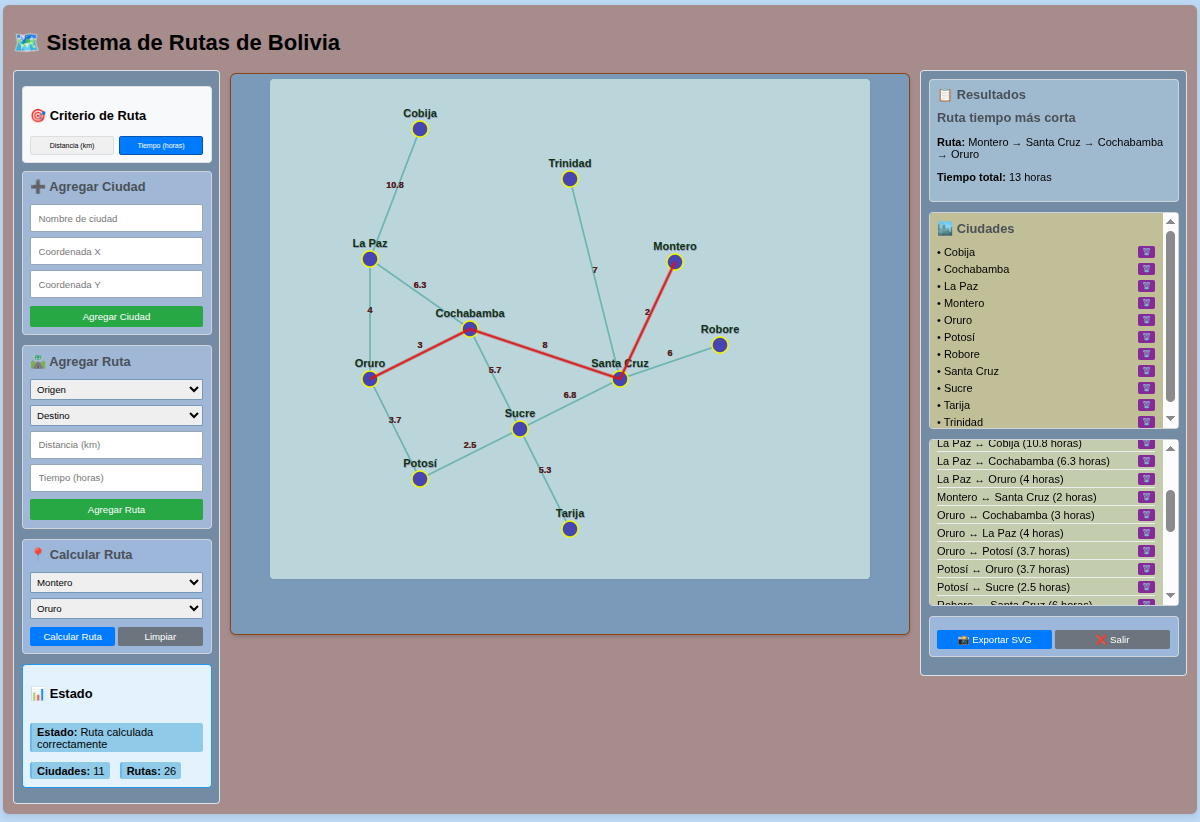
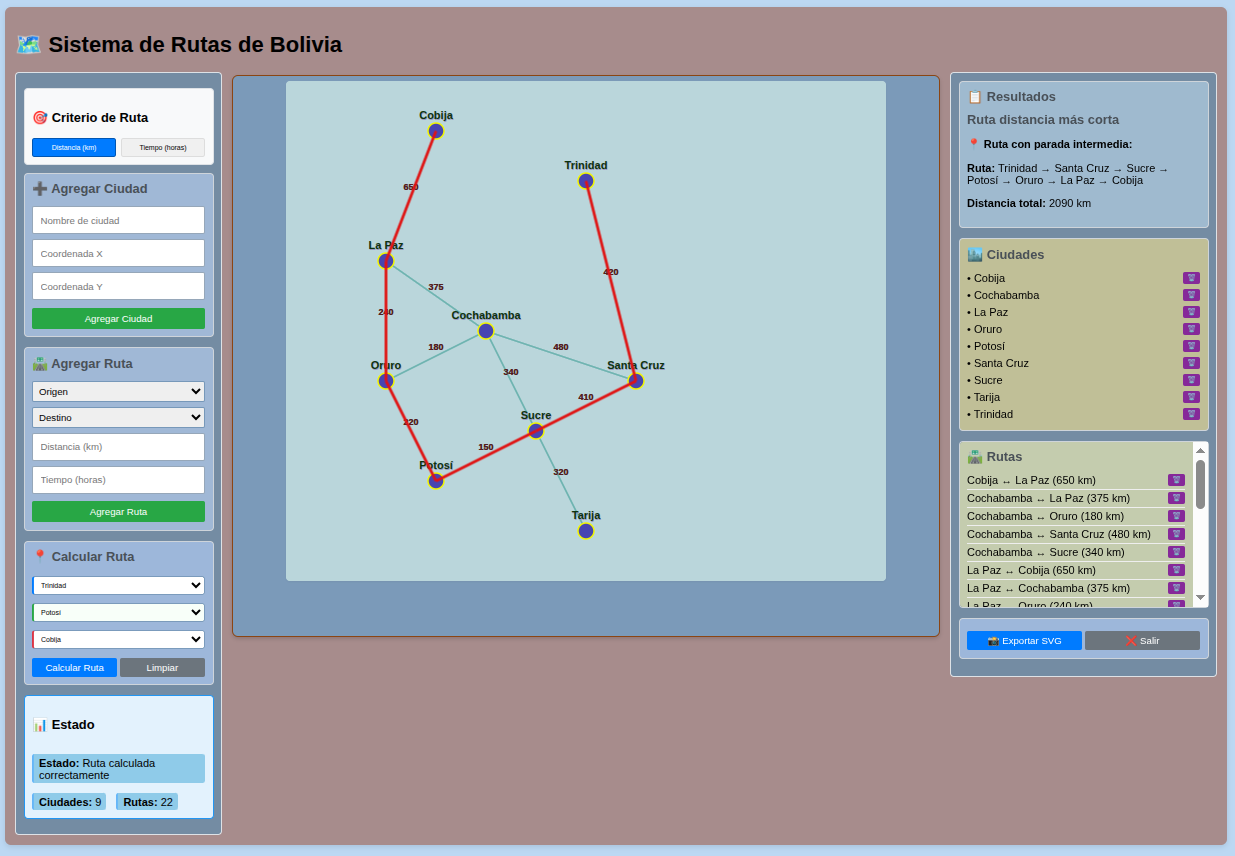
Actualizando ruta multiple

diff --git a/tareas/grafo_rutas/static/rutas.js b/tareas/grafo_rutas/static/rutas.js
@@ -120,24 +120,33 @@ class SistemaRutas {
         }
     }
 
+
     actualizarSelects() {
         const origen = document.getElementById('origen');
+        const intermedio = document.getElementById('intermedio');
         const destino = document.getElementById('destino');
         const ciudad1Ruta = document.getElementById('ciudad1-ruta');
         const ciudad2Ruta = document.getElementById('ciudad2-ruta');
         
-        if (origen) origen.innerHTML = '<option value="">Origen</option>';
-        if (destino) destino.innerHTML = '<option value="">Destino</option>';
+        // ✅ LIMPIAR TODOS LOS SELECTORES
+        if (origen) origen.innerHTML = '<option value="">Ciudad Origen</option>';
+        if (intermedio) intermedio.innerHTML = '<option value="">Ciudad Intermedia (opcional)</option>';
+        if (destino) destino.innerHTML = '<option value="">Ciudad Destino</option>';
         if (ciudad1Ruta) ciudad1Ruta.innerHTML = '<option value="">Origen</option>';
         if (ciudad2Ruta) ciudad2Ruta.innerHTML = '<option value="">Destino</option>';
 
+        // ✅ LLENAR CON CIUDADES
         Object.keys(this.ciudades).forEach(ciudad => {
             if (origen) origen.innerHTML += `<option value="${ciudad}">${ciudad}</option>`;
+            if (intermedio) intermedio.innerHTML += `<option value="${ciudad}">${ciudad}</option>`;
             if (destino) destino.innerHTML += `<option value="${ciudad}">${ciudad}</option>`;
             if (ciudad1Ruta) ciudad1Ruta.innerHTML += `<option value="${ciudad}">${ciudad}</option>`;
             if (ciudad2Ruta) ciudad2Ruta.innerHTML += `<option value="${ciudad}">${ciudad}</option>`;
         });
     }
+
+
+
 
     mostrarListaCiudades() {
         const lista = document.getElementById('lista-ciudades');
@@ -265,26 +274,31 @@ class SistemaRutas {
     }
 
 
-
-
-
-
     async calcularRuta() {
         const origen = document.getElementById('origen').value;
+        const intermedio = document.getElementById('intermedio').value;
         const destino = document.getElementById('destino').value;
 
+        // ✅ VALIDACIÓN CON PUNTO INTERMEDIO OPCIONAL
         if (!origen || !destino) {
-            alert('Por favor selecciona una ciudad de origen y una de destino');
+            alert('Por favor selecciona al menos ciudad de origen y destino');
             return;
         }
 
         if (origen === destino) {
-            alert('Por favor selecciona ciudades diferentes para origen y destino');
+            alert('Las ciudades de origen y destino deben ser diferentes');
             return;
         }
 
-        // ✅ DEBUG: Verificar criterio
-        console.log("🔍 DEBUG - Criterio actual:", this.criterioActual);
+        // ✅ VERIFICAR SI HAY PUNTO INTERMEDIO
+        const tieneIntermedio = intermedio && intermedio !== '';
+        
+        if (tieneIntermedio) {
+            if (origen === intermedio || intermedio === destino) {
+                alert('La ciudad intermedia debe ser diferente al origen y destino');
+                return;
+            }
+        }
 
         this.actualizarEstado("Calculando ruta óptima...");
         this.limpiarAnimaciones();
@@ -295,8 +309,9 @@ class SistemaRutas {
                 headers: { 'Content-Type': 'application/json' },
                 body: JSON.stringify({ 
                     origen, 
+                    intermedio: tieneIntermedio ? intermedio : null,
                     destino, 
-                    criterio: this.criterioActual // ← AQUÍ ESTÁ EL PROBLEMA
+                    criterio: this.criterioActual
                 })
             });
 
@@ -306,9 +321,6 @@ class SistemaRutas {
 
             const data = await response.json();
             
-            // ✅ DEBUG: Verificar respuesta
-            console.log("🔍 DEBUG - Respuesta del servidor:", data);
-            
             if (data.error) {
                 document.getElementById('resultado').innerHTML = 
                     `<strong>❌ Error:</strong> ${data.error}`;
@@ -316,7 +328,7 @@ class SistemaRutas {
             } else {
                 await this.animarDijkstra(data.pasos);
                 this.dibujarRutaOptima(data.camino);
-                this.mostrarResultado(data);
+                this.mostrarResultado(data, tieneIntermedio);
                 this.actualizarEstado("Ruta calculada correctamente");
             }
                 
@@ -328,19 +340,33 @@ class SistemaRutas {
     }
 
 
-    mostrarResultado(data) {
+
+    mostrarResultado(data, tieneIntermedio = false) {
         console.log("Datos recibidos:", data);
         const resultadoDiv = document.getElementById('resultado');
         
         const criterio = data.criterio === 'distancia' ? 'Distancia' : 'Tiempo';
         const unidad = data.criterio === 'distancia' ? 'km' : 'horas';
         
-        resultadoDiv.innerHTML = `
-            <h3>Ruta ${criterio.toLowerCase()} más corta</h3>
+        let html = `<h3>Ruta ${criterio.toLowerCase()} más corta</h3>`;
+        
+        if (tieneIntermedio) {
+            html += `<p><strong>📍 Ruta con parada intermedia:</strong></p>`;
+        }
+        
+        html += `
             <p><strong>Ruta:</strong> ${data.camino.join(' → ')}</p>
             <p><strong>${criterio} total:</strong> ${data.distancia} ${unidad}</p>
         `;
+        
+        resultadoDiv.innerHTML = html;
     }
+
+
+
+
+
+
 
     async animarDijkstra(pasos) {
         this.actualizarEstado("Animando algoritmo Dijkstra...");

diff --git a/tareas/grafo_rutas/templates/mapa.html b/tareas/grafo_rutas/templates/mapa.html
@@ -50,12 +50,14 @@
 
 
 
-
                 <!-- CONTROLES CALCULAR RUTA -->
                 <div class="controles">
                     <h3>📍 Calcular Ruta</h3>
                     <select id="origen">
                         <option value="">Ciudad Origen</option>
+                    </select>
+                    <select id="intermedio">
+                        <option value="">Ciudad Intermedia (opcional)</option>
                     </select>
                     <select id="destino">
                         <option value="">Ciudad Destino</option>
@@ -65,6 +67,7 @@
                         <button onclick="limpiarRuta()">Limpiar</button>                        
                     </div>
                 </div>
+
 
                 <!-- INFO ESTADO -->
                 <div class="info-estado">

diff --git a/tareas/grafo_rutas/static/estilo.css b/tareas/grafo_rutas/static/estilo.css
@@ -335,3 +335,41 @@ body {
 .btn-eliminar:hover {
     background: #c82333;
 }
+
+
+
+/* ESTILOS PARA SELECTORES MÚLTIPLES DE RUTA */
+.controles select {
+    width: 100%;
+    padding: 10px;
+    margin: 8px 0;
+    border: 2px solid #7798b9;
+    border-radius: 6px;
+    box-sizing: border-box;
+    font-size: 14px;
+    background: white;
+}
+
+.controles select:focus {
+    border-color: #007bff;
+    outline: none;
+    box-shadow: 0 0 5px rgba(0, 123, 255, 0.3);
+}
+
+.controles select option {
+    padding: 8px;
+}
+
+/* DESTACAR SELECTOR INTERMEDIO */
+#intermedio {
+    border-left: 4px solid #28a745;
+    background: #f8fff9;
+}
+
+#origen {
+    border-left: 4px solid #007bff;
+}
+
+#destino {
+    border-left: 4px solid #dc3545;
+}

diff --git a/tareas/grafo_rutas/routes/api.py b/tareas/grafo_rutas/routes/api.py
@@ -36,14 +36,34 @@ def calcular_ruta():
         datos = request.get_json()
         origen = datos.get('origen')
         destino = datos.get('destino')
+        intermedio = datos.get('intermedio')
         criterio = datos.get('criterio', 'distancia')
 
         if not origen or not destino:
             return jsonify({'error': 'Origen y destino requeridos'}), 400
 
-        # ✅ OPCIÓN 1: Usar obtener_grafo() (más directo)
         grafo = controlador.obtener_grafo()
-        resultado = grafo.dijkstra(origen, destino, criterio)
+
+        # ✅ CALCULAR RUTA CON/SIN PUNTO INTERMEDIO
+        if intermedio:
+            # Origen → Intermedio → Destino
+            ruta1 = grafo.dijkstra(origen, intermedio, criterio)
+            ruta2 = grafo.dijkstra(intermedio, destino, criterio)
+
+            # COMBINAR RUTAS
+            camino_completo = ruta1['camino'][:-1] + \
+                ruta2['camino']  # Evitar duplicar intermedio
+            distancia_total = ruta1['distancia'] + ruta2['distancia']
+            pasos_combinados = ruta1['pasos'] + ruta2['pasos']
+
+            resultado = {
+                'camino': camino_completo,
+                'distancia': distancia_total,
+                'pasos': pasos_combinados
+            }
+        else:
+            # RUTA DIRECTA
+            resultado = grafo.dijkstra(origen, destino, criterio)
 
         return jsonify({
             'camino': resultado['camino'],

diff --git a/tareas/grafo_rutas/README.md b/tareas/grafo_rutas/README.md
@@ -8,9 +8,15 @@ README.md
 
 # 🗺 Sistema de Rutas de Bolivia - Grafos
 
-## En Tiempo
+## Ruta multiple : Ciudad Origen, Intermedia y Destino Final
+
+Probar en : https://lorginho.pythonanywhere.com/
 
 ![Interfaz del Sistema de Rutas de Bolivia](sistema_rutas.png)
+
+## En Tiempo
+
+![Interfaz del Sistema de Rutas de Bolivia](sistema_rutas3.png)
 
 ## En Distancia
 
